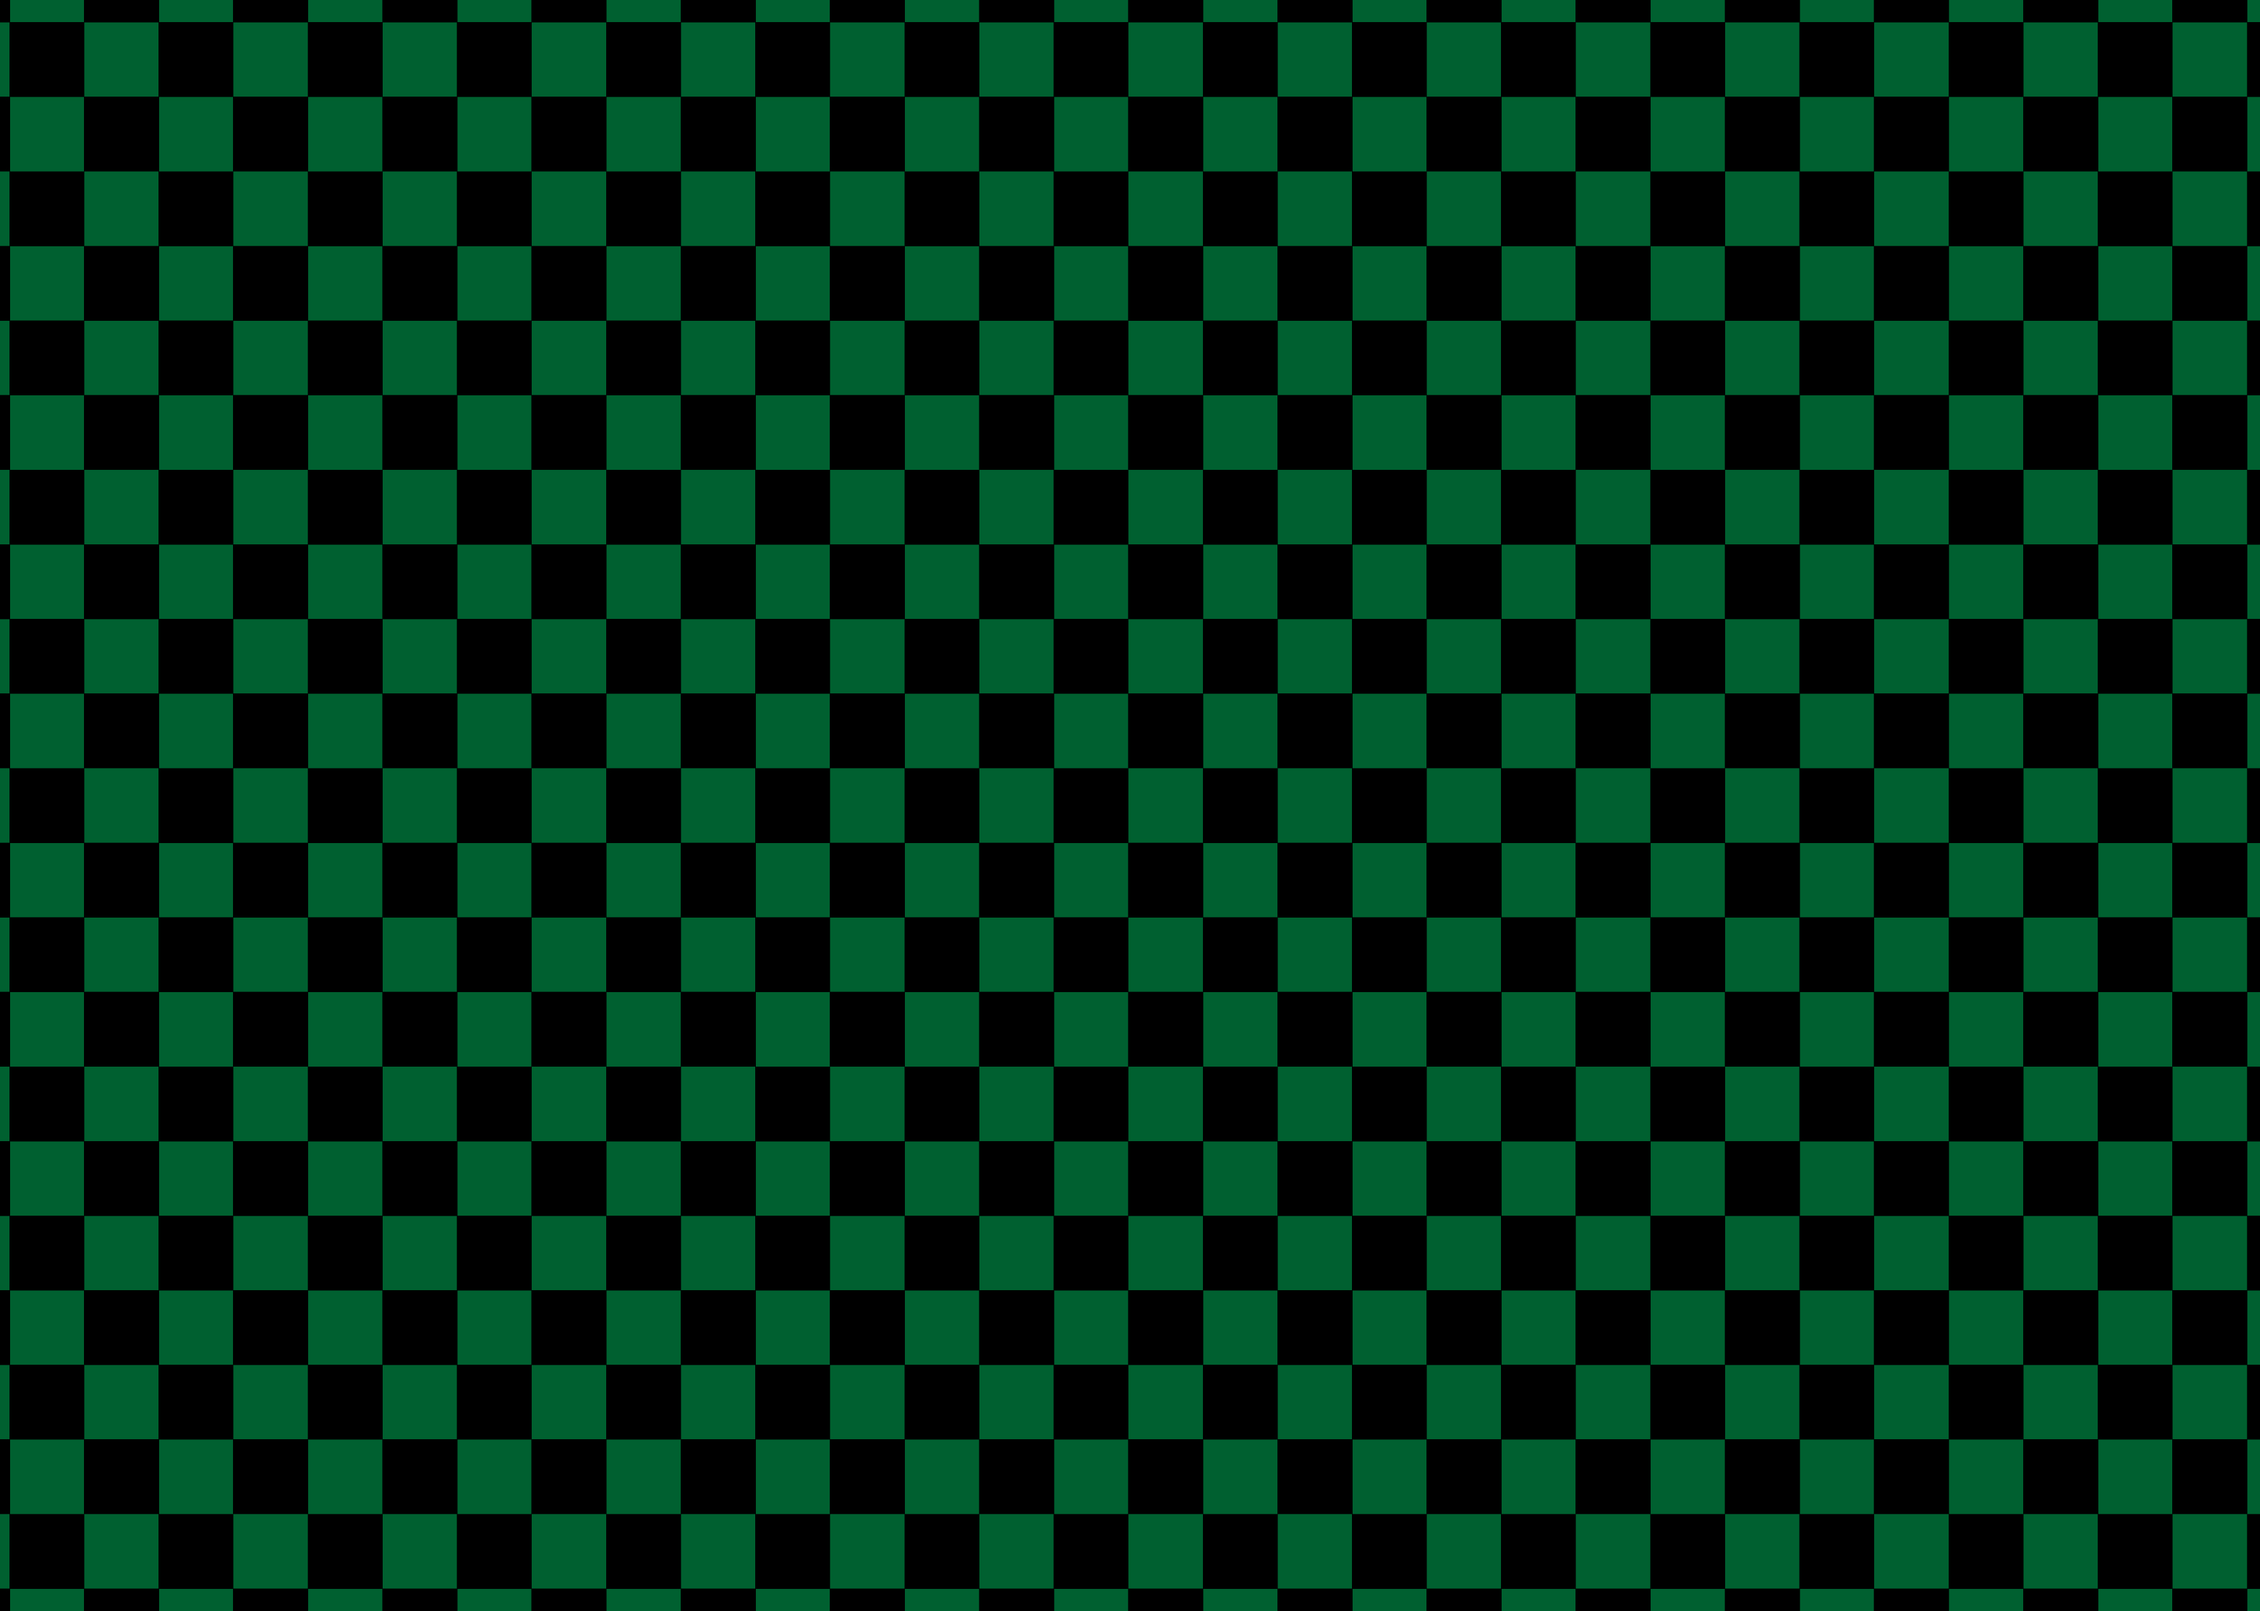
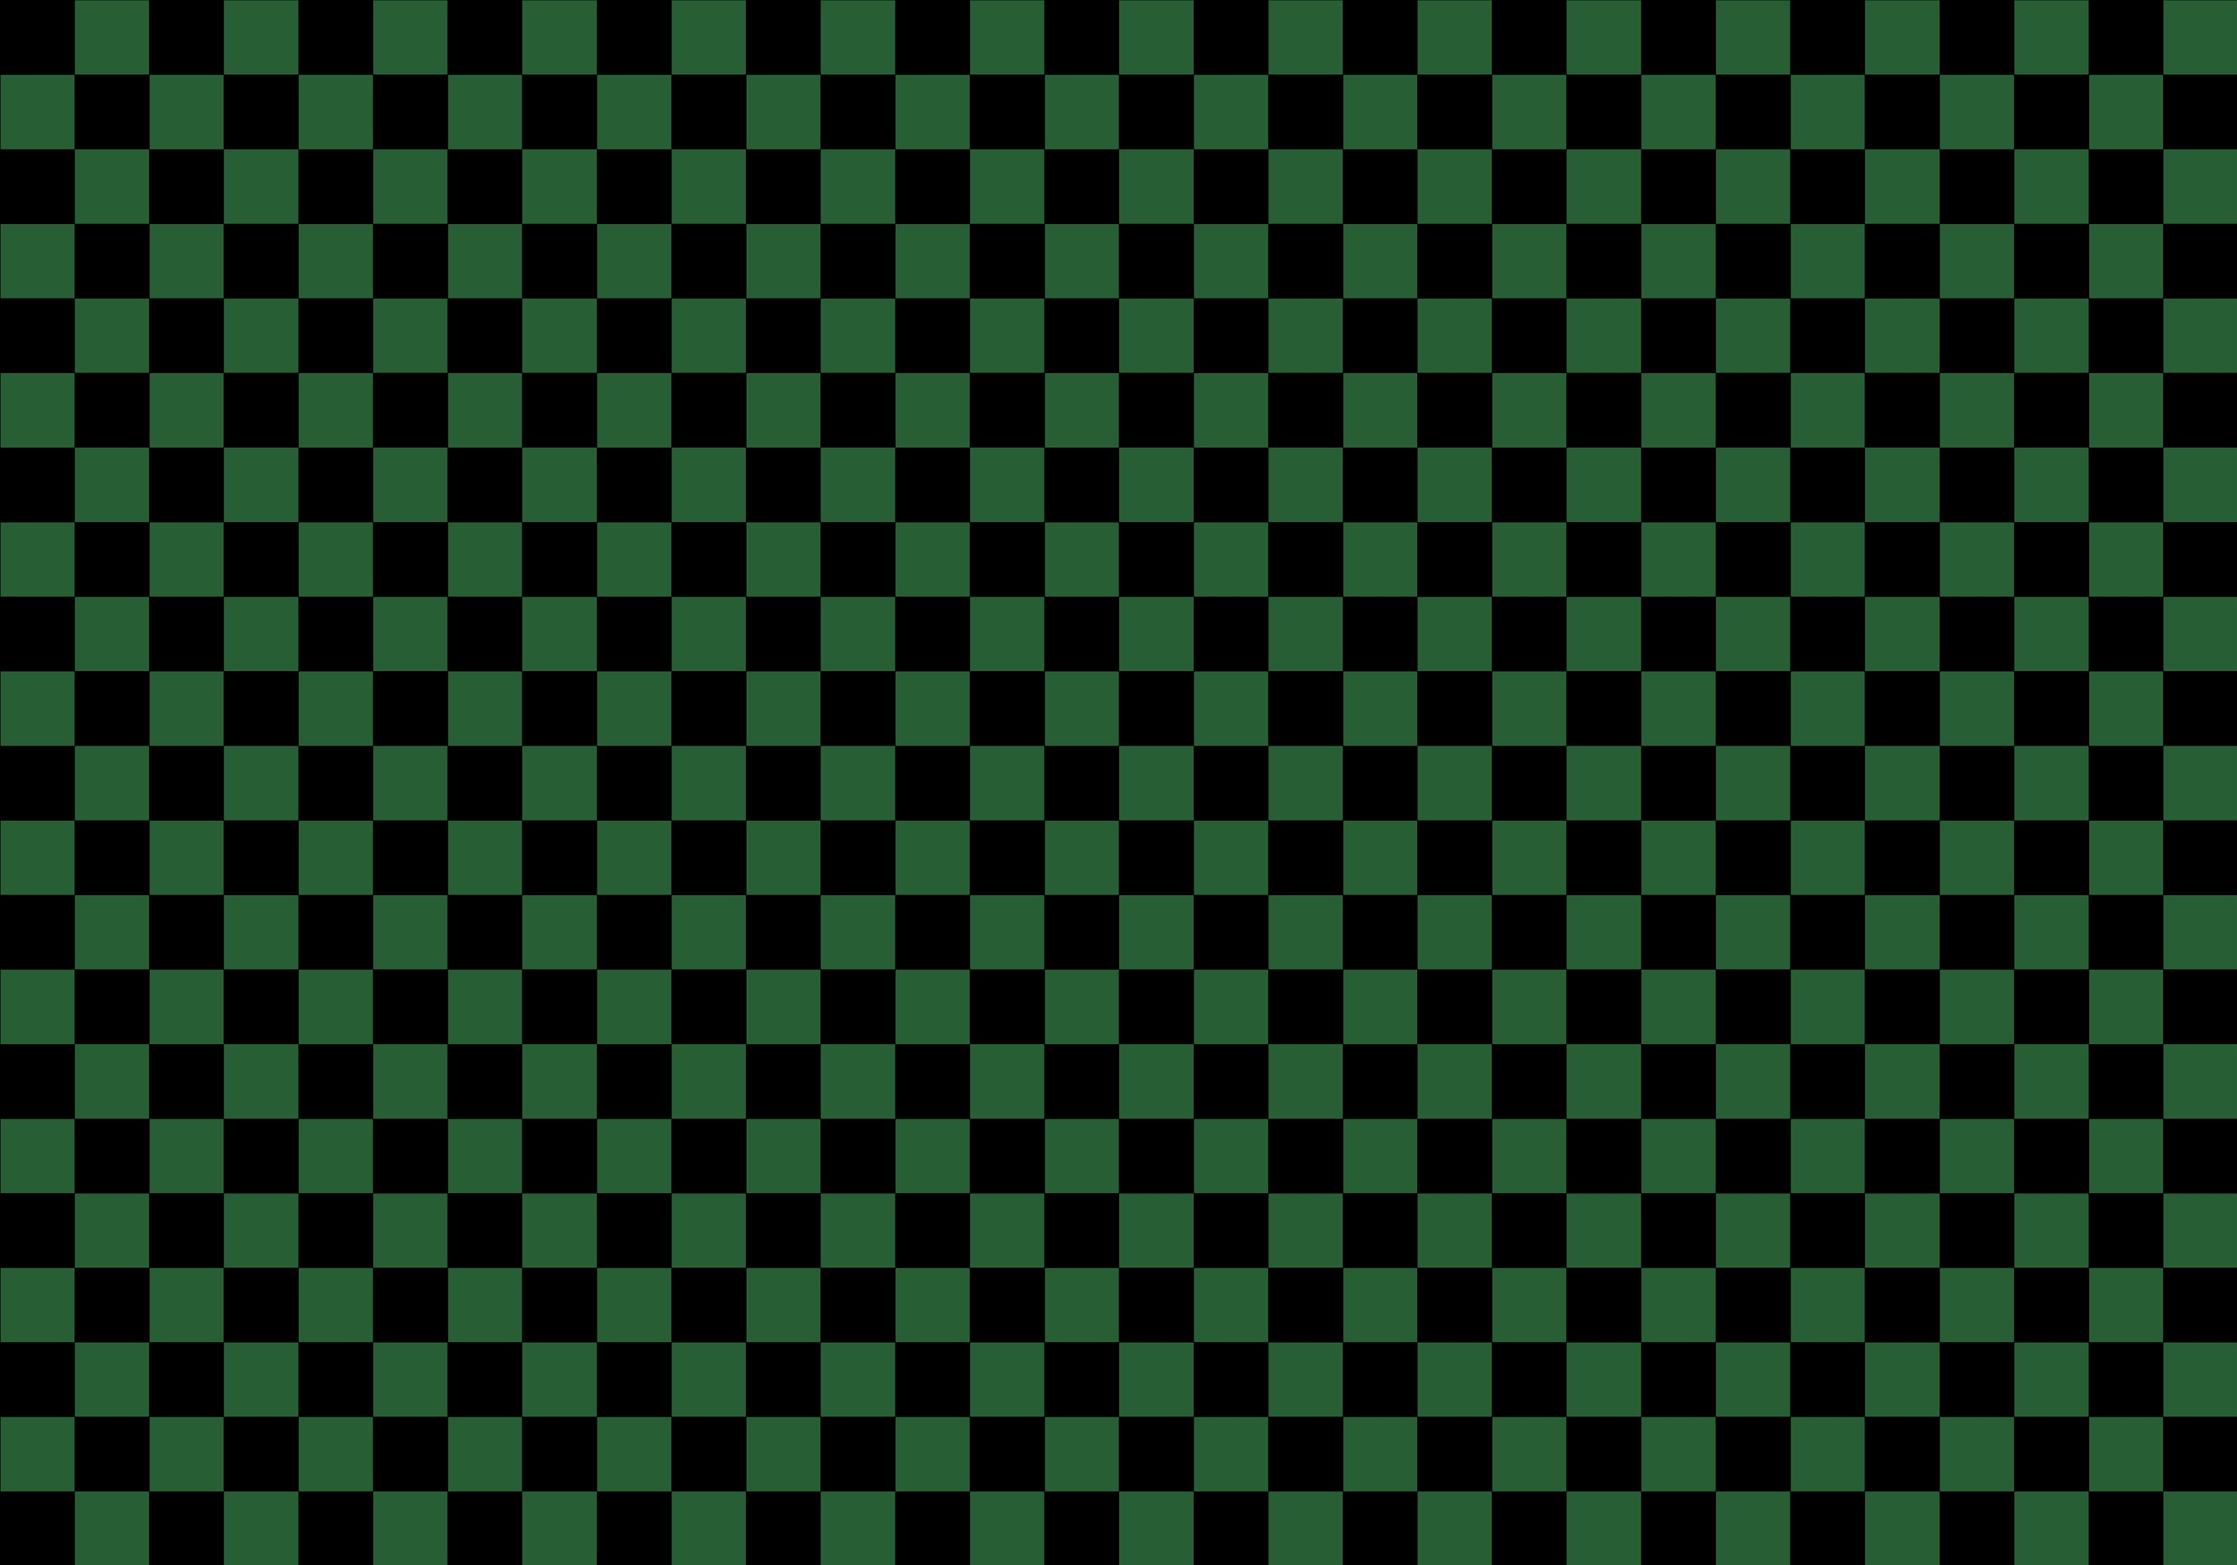
ヘッダーを微調整

diff --git a/css/styles.css b/css/styles.css
@@ -134,9 +134,11 @@ body {
 
 header {
   background-image: url(../images/header.jpg);
-  background-size: cover;
+  background-size: 1200px;
   background-attachment: fixed;
-  background-position: 0px 18px;
+  background-repeat: repeat;
+  background-position: 0px -13px;
+
   padding: 30px 0;
   margin-bottom: 30px;
   box-shadow: 0px 3px 5px #333;
